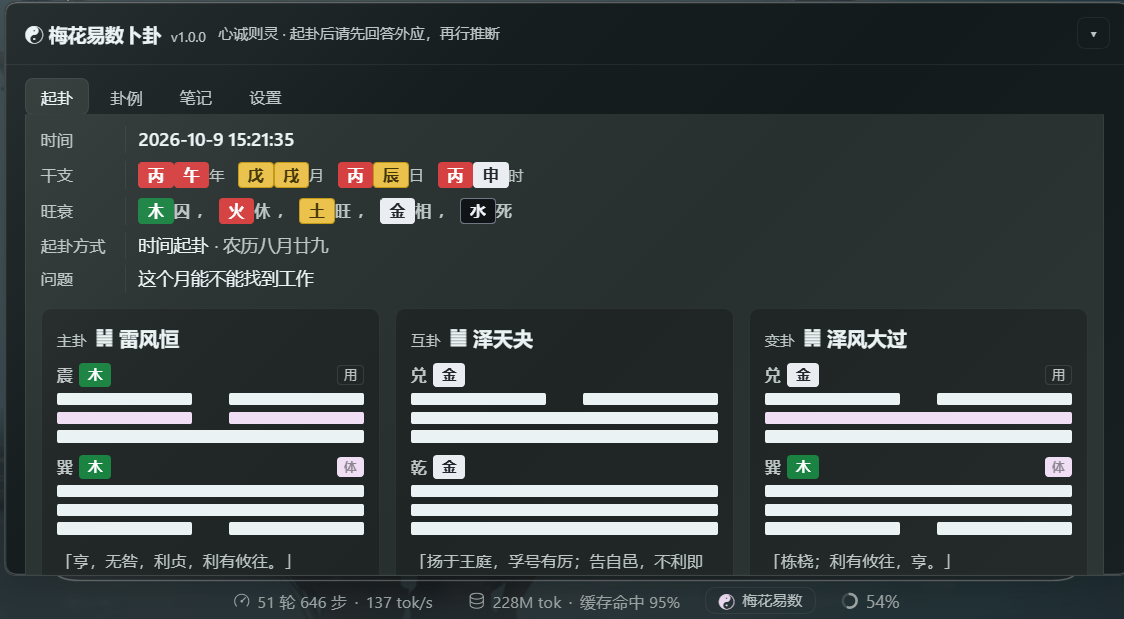
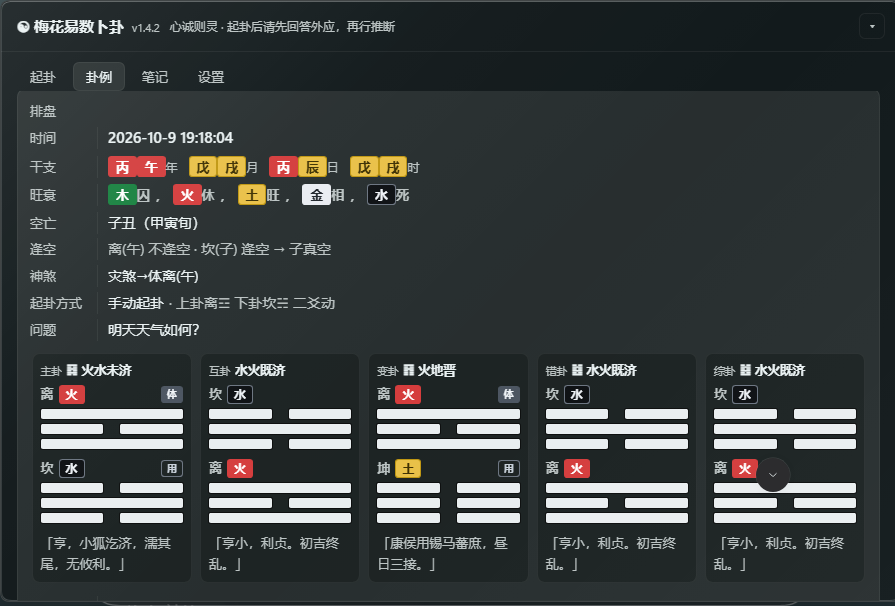
docs: 用当前版本的界面截图替换 README 两张图
- assets/panel.png ← 起卦页（四种起卦方式：时间/数字/一字占/手动，标题旁无红字提示）
- assets/chart.png ← 排盘视图（五张卦卡同排：主/互/变/错/综，各带卦辞；
  空亡/逢空/神煞 在旺衰下面）

顺带订正开头一句的功能描述：补齐四种起卦方式与错卦/综卦/空亡/神煞。
screenshots.json 引用的路径不变，无需改动。

diff --git a/README.md b/README.md
@@ -5,8 +5,9 @@
 > 体用 relations), and keep a local journal of readings, omens (外应) and study notes.
 
 面向 DeepSeek Harness 的梅花易数卜卦插件：**聊天起卦**与**界面点击起卦**双入口，
-输出完整排盘（干支、五行旺衰、主卦/互卦/变卦、动爻、体用生克），并保存卦例、外应与学习笔记。
-纯 JavaScript 实现，**没有运行时依赖**，数据只落在本机。
+支持时间 / 数字 / 一字占（测字法）/ 手动指定四种起卦方式；
+输出完整排盘（干支、五行旺衰、主卦/互卦/变卦、动爻、体用生克，以及错卦/综卦/空亡/神煞），
+并保存卦例、外应与学习笔记。纯 JavaScript 实现，**没有运行时依赖**，数据只落在本机。
 
 ---
 
